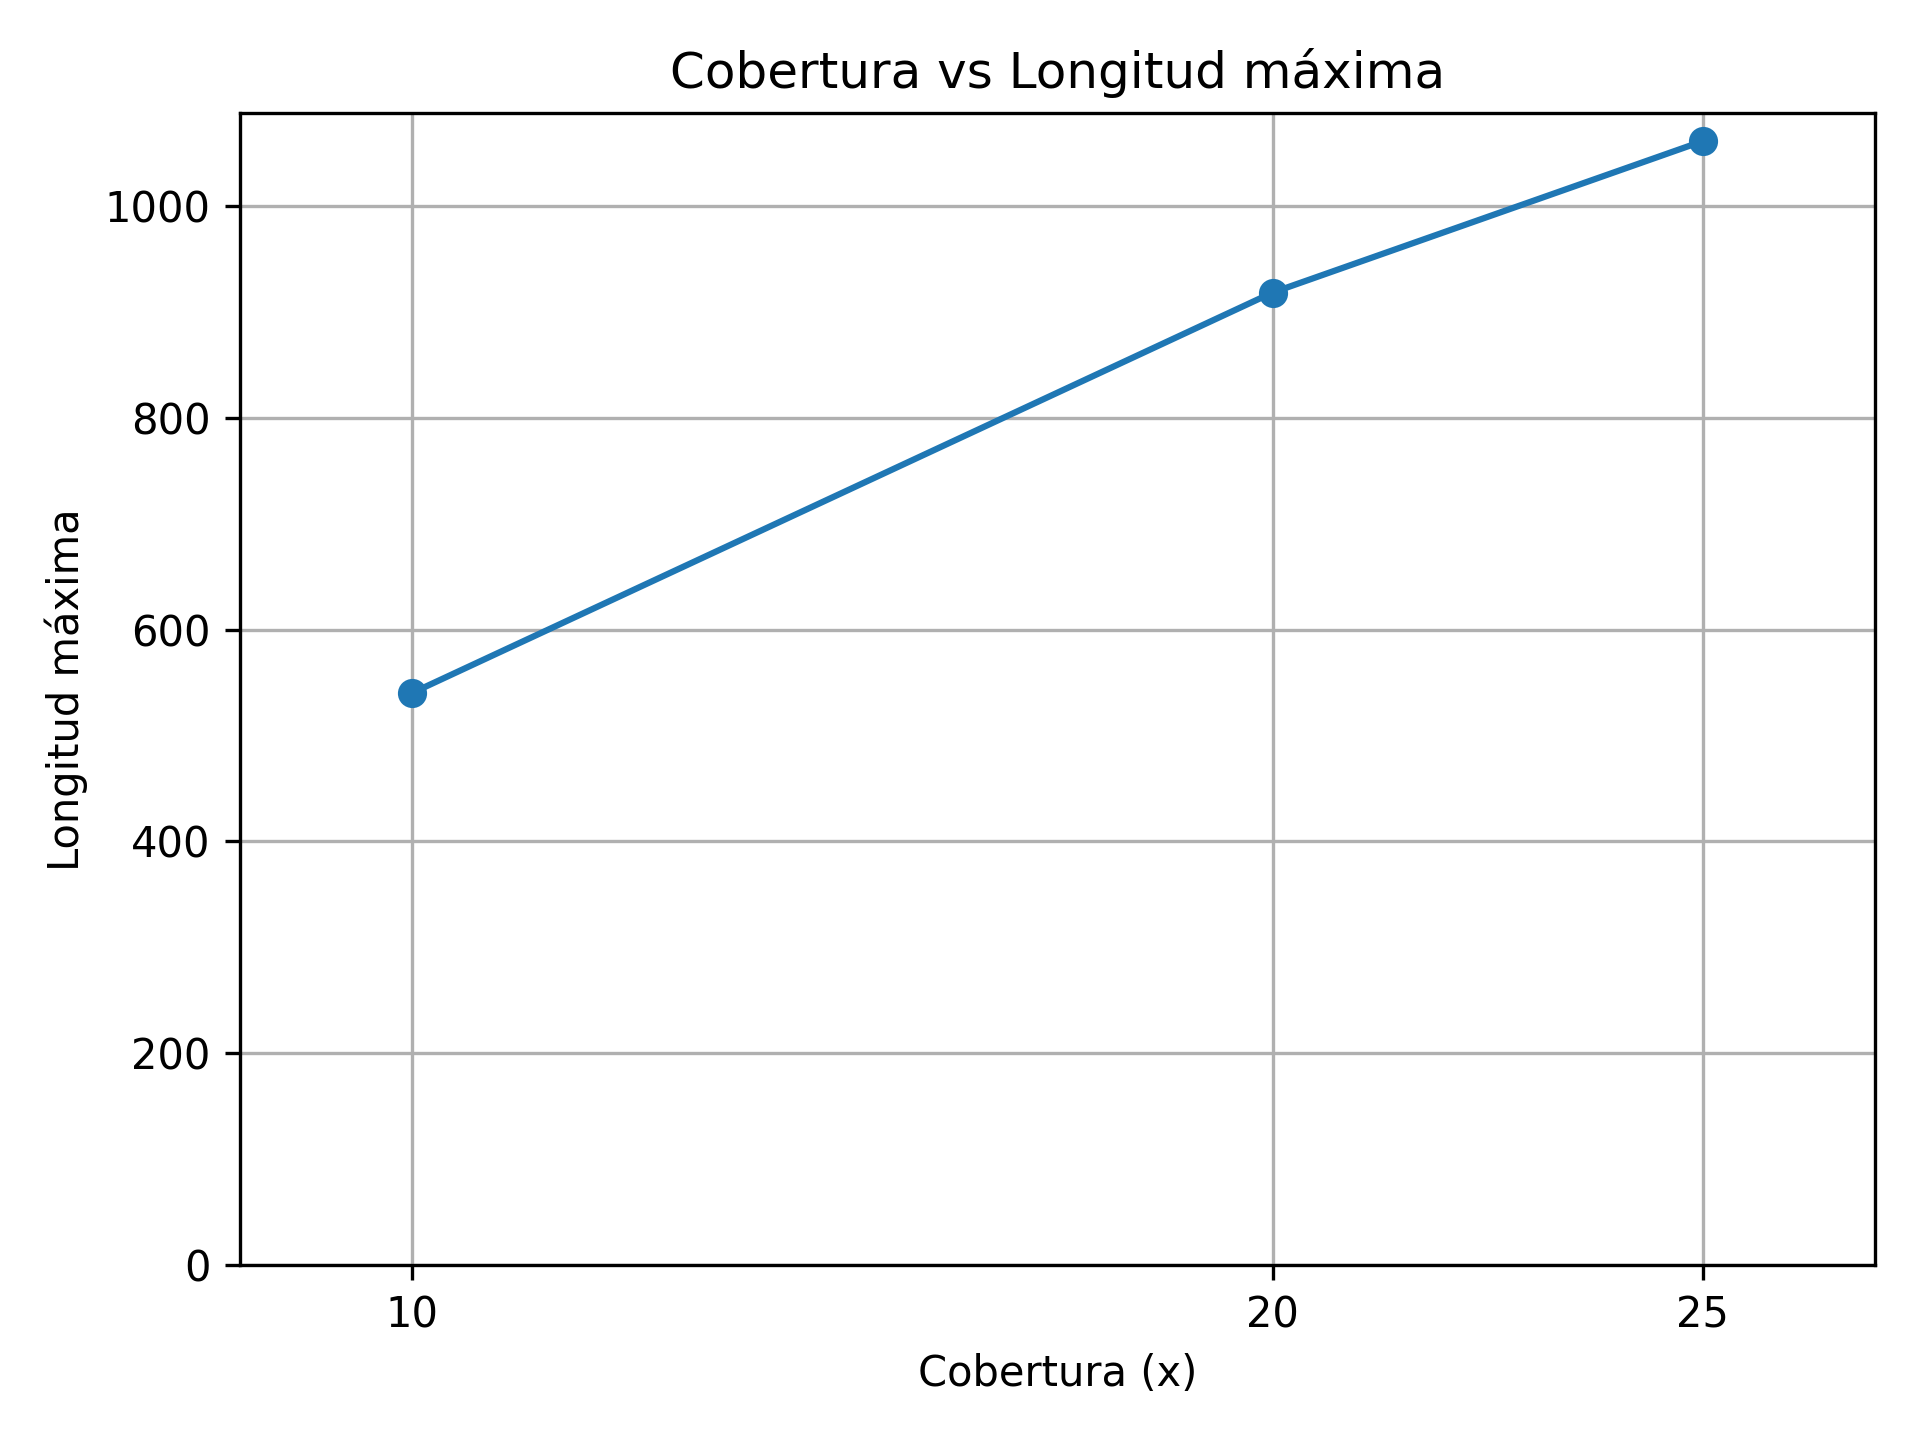
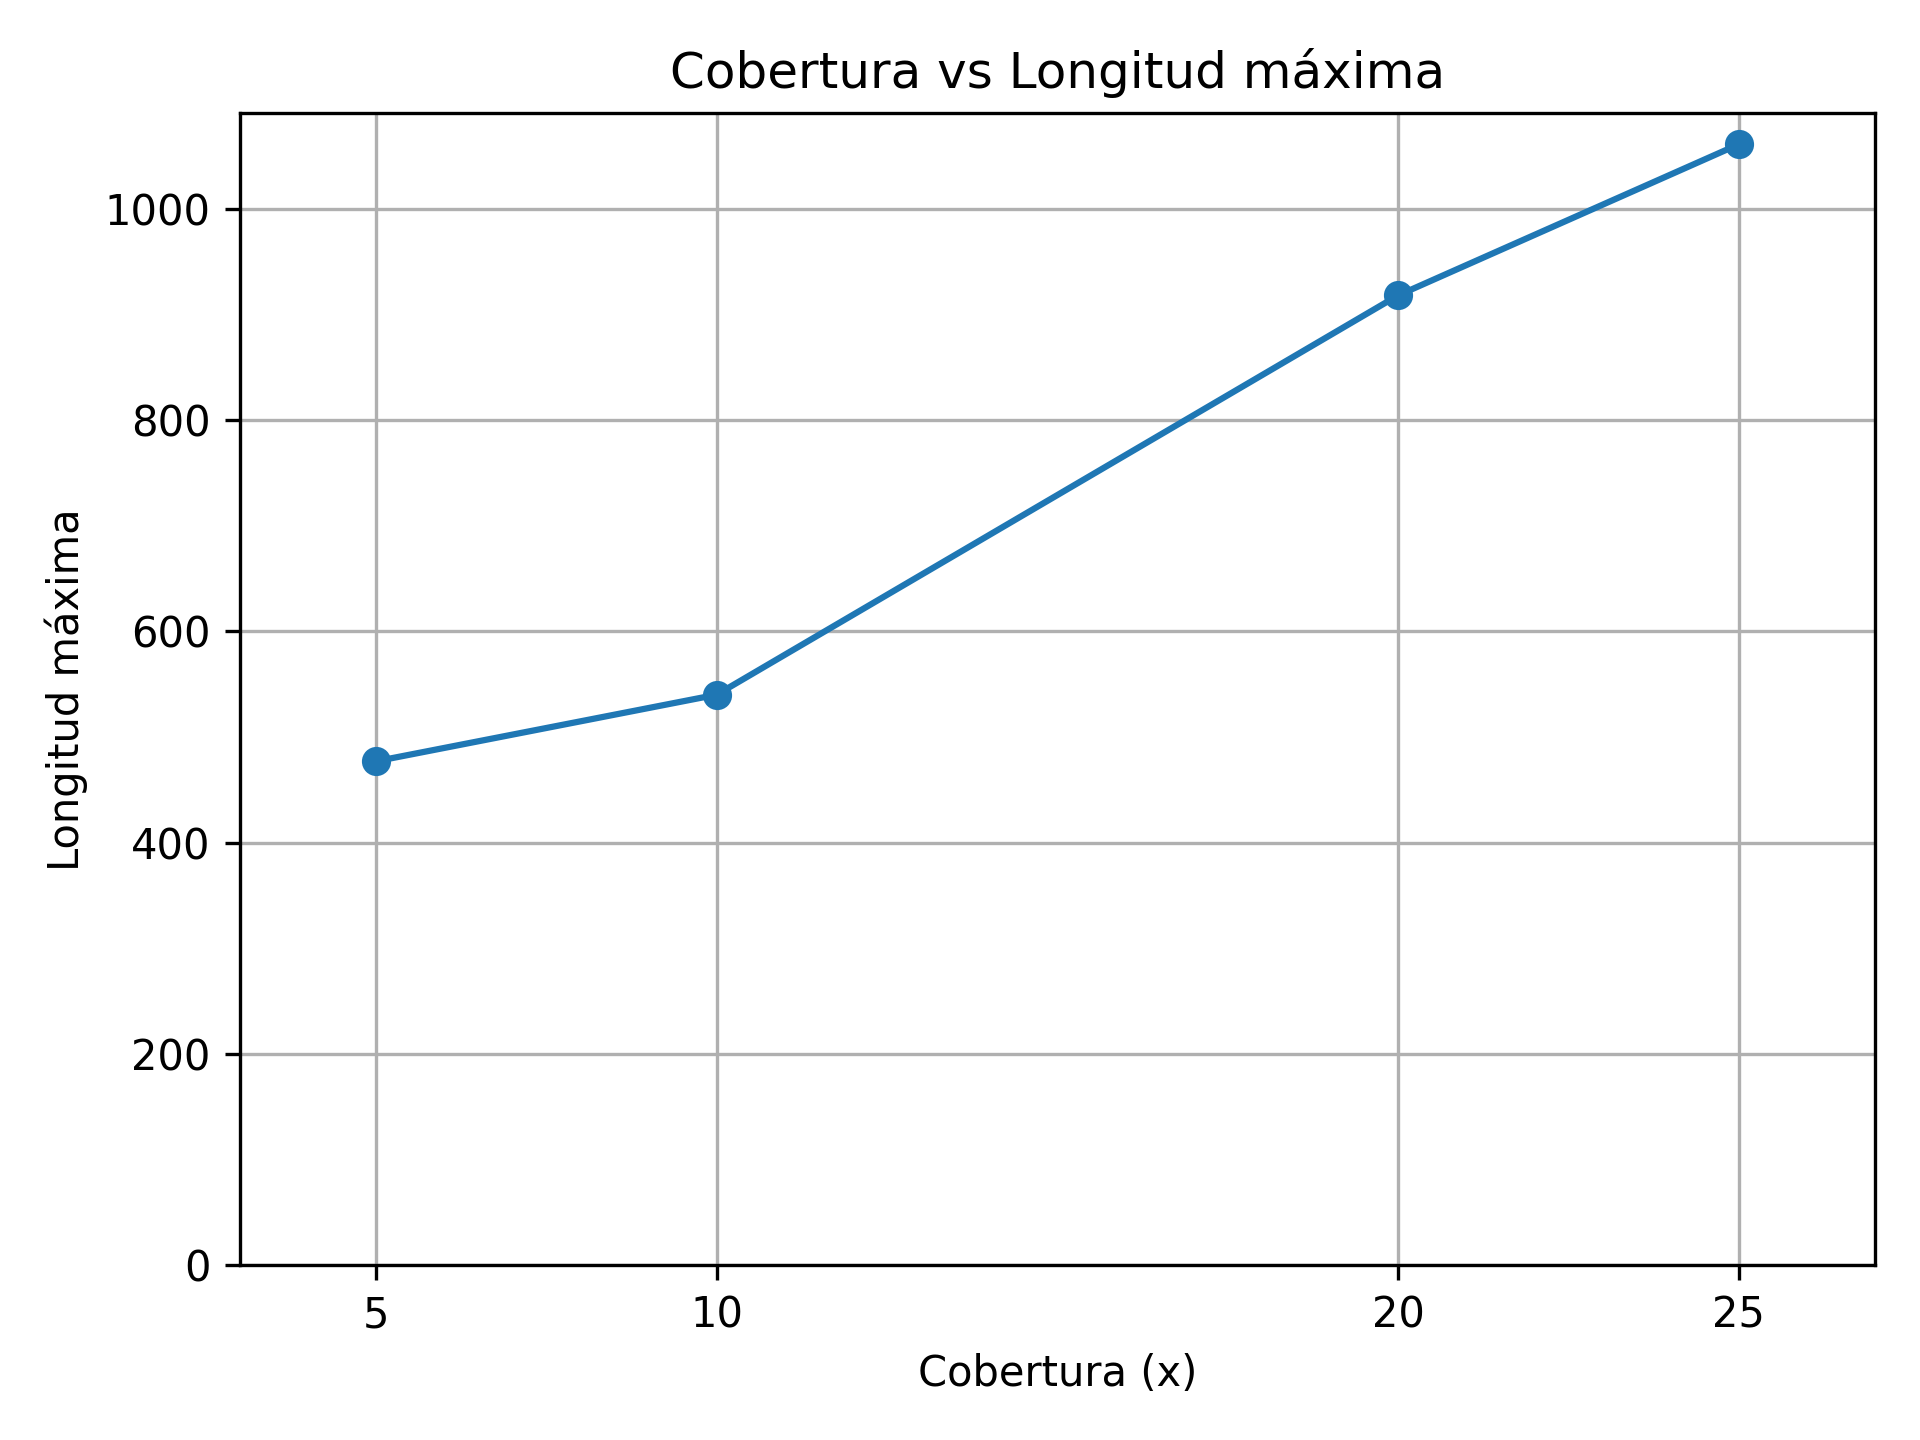
añadido 5x

diff --git a/python/visualizacion.py b/python/visualizacion.py
@@ -5,26 +5,27 @@ import os
 RUTA_CSV = "resultados/resultados.csv"
 
 def leer_resultados(ruta):
-    coberturas = []
-    n50s = []
-    contigs = []
-    maximos = []
-    totales = []
+    filas = []
 
     with open(ruta, "r") as f:
         reader = csv.DictReader(f)
         for fila in reader:
-            coberturas.append(int(fila["cobertura"]))
-            n50s.append(int(fila["n50"]))
-            contigs.append(int(fila["num_contigs"]))
-            maximos.append(int(fila["longitud_maxima"]))
-            totales.append(int(fila["longitud_total"]))
+            filas.append((
+                int(fila["cobertura"]),
+                int(fila["n50"]),
+                int(fila["num_contigs"]),
+                int(fila["longitud_maxima"]),
+                int(fila["longitud_total"])
+            ))
 
     # Ordenar por cobertura
-    coberturas, n50s = zip(*sorted(zip(coberturas, n50s)))
-    _, contigs = zip(*sorted(zip(coberturas, contigs)))
-    _, maximos = zip(*sorted(zip(coberturas, maximos)))
-    _, totales = zip(*sorted(zip(coberturas, totales)))
+    filas.sort(key=lambda x: x[0])
+
+    coberturas = [f[0] for f in filas]
+    n50s = [f[1] for f in filas]
+    contigs = [f[2] for f in filas]
+    maximos = [f[3] for f in filas]
+    totales = [f[4] for f in filas]
 
     return coberturas, n50s, contigs, maximos, totales
 

diff --git a/python/experimentacion.py b/python/experimentacion.py
@@ -14,7 +14,7 @@ K_FIJO = 51
 ERROR_FIJO = 0.01
 
 # Coberturas 
-COBERTURAS = [10, 20, 25]
+COBERTURAS = [5, 10, 20, 25]
 
 def ejecutar_experimentos():
     resultados = []
